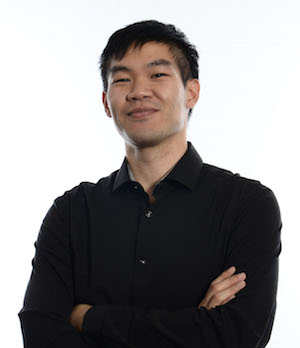
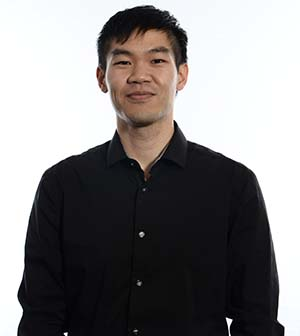
asthetic changes | bio update

diff --git a/index.html b/index.html
@@ -17,7 +17,7 @@
 		<nav>
 		<ul>
 			<li> <a href="#top">Top</a> </li>
-			<li> <a href="#about-me">About Me</a> </li>
+			<li> <a href="#about-me">About</a> </li>
 			<li> <a href="#projects">Projects</a> </li>
 			<li> <a href="#contact">Contact</a>	</li>
 		</ul>
@@ -27,18 +27,26 @@
 	<a name='top'></a>
 	<div class="home section">
 		<div class="profile">
+			<h1 style='font-size:4em;'> Philip Choi </h1>
 			<img class="profilePic center" src="img/profile_pic.jpg">
-			<h1> Welcome!</h1>
-			<h3 class='center-text'>Still under Construction...</h3>
+			<h1 class='navy'>Web Developer | DIY | Gamer | Archer</h1>
 		</div>
 	</div>
 	
 	<a name='about-me'></a>
 	<div class="about-me section2">
-	<article class='center'>
-		<h1>About Me</h1>
+	<article class='center v-align'>
+		<h1>Me</h1>
 			<p> 
 				My name is Philip Choi and I was born and raised in NYC. I graduated from college and went to work in Japan for two years before returning to America once again, to seek a career. 
+			</p>
+			<p>
+				Growing up in the early stages of developing technology, it was natural for me to have an interest. I didn't have the luxury of getting my hands on what I wanted so through friends and school is where most of my exposure took place. I'm always curious about how things work and enjoy disassembling them to figure it out, be it hardware or the mind.
+			</p>
+
+		<h1> Professional Goal </h1>
+			<p>
+				I enjoy learning and being great at what I do. I look forward to learning more about web development programming look forward to ultimately entering the gaming industry, creating great products that will enamor others.
 			</p>
 
 		<h1> Interests </h1>
@@ -46,15 +54,12 @@
 				My hobbies mostly revolve around video games. My favorite genres are RPG and action-adventure. I am also great at first person shooters but I prefer to play them on the PC. My other hobbies include eating, bowling, billiards, snowboarding, handball, biking/cycling, and kyudo (Japanese archery).
 			</p>
 
-		<h1> Professional Goal </h1>
-			<p>
-				I enjoy learning. I look forward to learning more about web development programming. I would love to work in the gaming industry, creating great products that will enamor others.
-			</p>
 	</article>
 	</div>
 
 	<a name='projects'></a>
 	<div class="projects section">
+		<div class="v-align">
 		<h1>Projects</h1>
 			<div class="project">
 				<!-- <a class='project-name' href="http://104.131.39.151:3001"><img src="img/ph4zer_thumb.png" alt="ph4zerGame"></a> -->
@@ -147,6 +152,7 @@
 				</div>
 				</div>
 			</div>
+		</div>
 	</div>
 	
 	<a name='contact'></a>
@@ -162,6 +168,6 @@
 	</footer>
 
 <script type="text/javascript" src="https://ajax.googleapis.com/ajax/libs/jquery/2.1.4/jquery.min.js"></script>
-<script src="javascripts/projects.js"></script>
+<script src="javascripts/main.js"></script>
 </body>
 </html>

diff --git a/css/style.css b/css/style.css
@@ -1,6 +1,3 @@
-/**{
-	border:solid black 1px;
-}*/
 * {
 	/*font-family: 'Raleway', sans-serif;*/
 	font-family: 'PT Sans', sans-serif;
@@ -8,37 +5,6 @@
 
 html,body {
 	height:100%;
-}
-
-.section, .section2 {
-	padding: 5% 0;
-}
-
-.section2 {
-	box-shadow: 0px 0px 13px 4px rgba(0,0,0,0.52);
-	background-color: rgba(240,240,240,1);
-	/*background-color: rgba(142,206,142,1);*/
-	/*background-color: rgba(183,110,184,0.7);*/
-	/*background-color: rgba(122, 245, 245,0.4);*/
-}
-
-.home {
-	height: 100%;
-	position: relative;
-}
-
-.profile {
-	position: absolute;
-	top: 45%;
-	left: 50%;
-	transform: translate(-50%,-50%);
-}
-
-img.profilePic {
-	width: 300px;
-	border-radius: 25px;
-	border-style: ridge;
-	display:block;
 }
 
 body {
@@ -74,6 +40,38 @@ ul {
 	list-style-type: none;
 }
 
+.section, .section2 {
+	padding: 5% 0;
+	height: 100%;
+}
+
+.section2 {
+	box-shadow: 0px 0px 13px 4px rgba(0,0,0,0.52);
+	background-color: rgba(240,240,240,1);
+	/*background-color: rgba(142,206,142,1);*/
+	/*background-color: rgba(183,110,184,0.7);*/
+	/*background-color: rgba(122, 245, 245,0.4);*/
+}
+
+.home {
+	height: 100%;
+	position: relative;
+}
+
+.profile {
+	position: absolute;
+	top: 43%;
+	left: 50%;
+	transform: translate(-50%,-50%);
+}
+
+img.profilePic {
+	width: 300px;
+	border-radius: 25px;
+	border-style: ridge;
+	display:block;
+}
+
 .articles {
 	clear: both;
 	color: black;
@@ -89,6 +87,7 @@ article {
 .contact {
 	text-align: center;
 	font-size: 1.5em;
+	height: initial;
 }
 
 i {
@@ -110,6 +109,12 @@ h3 {
 	text-align: left;
 }
 
+.v-align {
+	position:relative;
+	top: 40%;
+	transform: translateY(-50%);
+}
+
 .project {
 	width: 80%;
 	margin-left: auto;
@@ -127,11 +132,18 @@ h3 {
 }
 
 .project-details .description {
-	padding-left: 1.5%;
+	padding-left: 1%;
 }
 
 .project-details img {
 	width:100%;
+}
+
+@media only screen and (max-device-width: 600px), (max-width: 600px) {
+	.project-details .thumbnail, .description {
+		width: 100%;
+		display: block;
+	}	
 }
 
 .ph4zergame * {
@@ -173,21 +185,6 @@ a:hover {
 	color: red;
 }
 
-.post-modal {
-	top: 50%;
-	left: 50%;
-	position: fixed;
-	display: none;
-	width: 100%;
-	height: 100%;
-	background-color: rgba(0,0,0,.4);
-}
-
-button.new-post {
-	/*position: fixed;*/
-	/*right: 0;*/
-	/*margin: 10px 20px;*/
-	float: right;
-	margin: 2em 10%;
-
+.navy {
+	color: navy;
 }

diff --git a/javascripts/main.js b/javascripts/main.js
@@ -1,0 +1,22 @@
+$(function() {
+	$('.project-details').hide()
+
+	$('.project-name').click(function() {
+		if ($(this).next('.project-details').css('display') === "none") {
+			$('.project-details').slideUp()
+			$(this).next('.project-details').slideDown()
+		}
+		else {
+			$(this).next('.project-details').slideUp()	
+		}
+	})
+
+	// $('li a').click(function(e) {
+	// 	var target = this.hash
+	// 	var $target = $("a[name="+target+"]")
+	// 	console.log($target)
+	// })
+
+
+
+})
